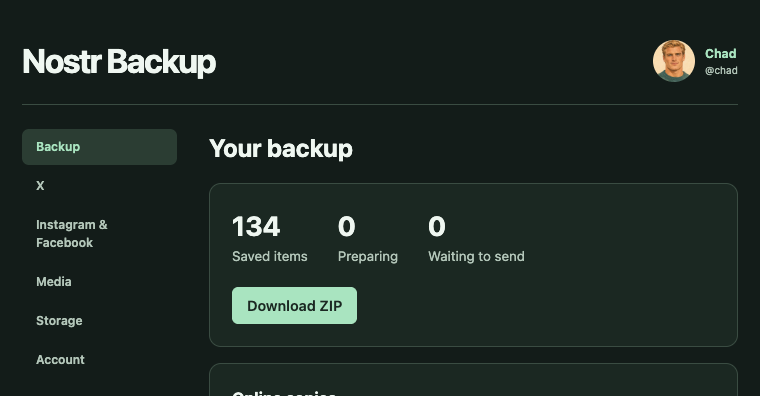
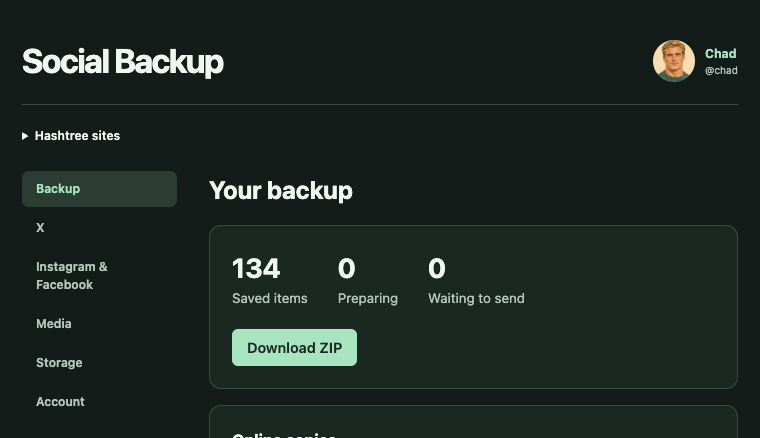
Rename the extension and download site to Social Backup

diff --git a/website/public/index.html b/website/public/index.html
@@ -3,18 +3,18 @@
   <head>
     <meta charset="utf-8">
     <meta name="viewport" content="width=device-width, initial-scale=1">
-    <title>Back up your posts | Nostr Backup</title>
+    <title>Back up your posts | Social Backup</title>
     <meta name="description" content="Keep a copy of your X, Instagram and Facebook posts. Scroll your profile and the extension saves them as you go.">
     <meta name="color-scheme" content="light dark">
     <meta name="theme-color" content="#faf9f5" media="(prefers-color-scheme: light)">
     <meta name="theme-color" content="#11141b" media="(prefers-color-scheme: dark)">
-    <link rel="canonical" href="https://nostrbackup.iris.to/">
+    <link rel="canonical" href="https://backup.iris.to/">
     <link rel="icon" href="./icon.svg" type="image/svg+xml">
     <link rel="stylesheet" href="./style.css">
   </head>
   <body>
     <header class="bar wrap">
-      <a class="brand" href="./"><img src="./icon.svg" width="30" height="30" alt="">Nostr Backup</a>
+      <a class="brand" href="./"><img src="./icon.svg" width="30" height="30" alt="">Social Backup</a>
       <nav aria-label="Main navigation"><a class="wide-only" href="#how">How it works</a><a href="#install">Install</a><a href="#questions">Questions</a></nav>
     </header>
     <main class="wrap">
@@ -35,10 +35,10 @@
         </div>
         <figure class="backup-preview">
           <picture>
-            <source media="(max-width: 35rem) and (prefers-color-scheme: dark)" srcset="./screenshots/toolbar-compact-dark.webp" width="366" height="525">
-            <source media="(max-width: 35rem)" srcset="./screenshots/toolbar-compact-light.webp" width="366" height="525">
-            <source media="(prefers-color-scheme: dark)" srcset="./screenshots/toolbar-desktop-dark.webp" width="730" height="557">
-            <img src="./screenshots/toolbar-desktop-light.webp" width="730" height="557" alt="The backup popup beneath its pinned Chrome toolbar icon, showing Chad’s avatar and eight captured X posts.">
+            <source media="(max-width: 35rem) and (prefers-color-scheme: dark)" srcset="./screenshots/toolbar-compact-dark.webp" width="366" height="545">
+            <source media="(max-width: 35rem)" srcset="./screenshots/toolbar-compact-light.webp" width="366" height="545">
+            <source media="(prefers-color-scheme: dark)" srcset="./screenshots/toolbar-desktop-dark.webp" width="730" height="577">
+            <img src="./screenshots/toolbar-desktop-light.webp" width="730" height="577" alt="The backup popup beneath its pinned Chrome toolbar icon, showing Chad’s avatar and eight captured X posts.">
           </picture>
           <figcaption>The extension on a sample X profile.</figcaption>
         </figure>
@@ -49,7 +49,7 @@
         <ol class="steps">
           <li>
             <h3>Make a profile</h3>
-            <p>Click the Nostr Backup icon and choose <strong>Create profile</strong>. Then choose <strong>X</strong> or <strong>Instagram &amp; Facebook</strong>, enter your username, turn on backup and choose <strong>Save</strong>.</p>
+            <p>Click the Social Backup icon and choose <strong>Create profile</strong>. Then choose <strong>X</strong> or <strong>Instagram &amp; Facebook</strong>, enter your username, turn on backup and choose <strong>Save</strong>.</p>
           </li>
           <li>
             <h3>Scroll your profile</h3>
@@ -62,8 +62,8 @@
         </ol>
         <figure class="backup-preview archive-preview">
           <picture>
-            <source media="(prefers-color-scheme: dark)" srcset="./screenshots/archive-dark.webp" width="760" height="396">
-            <img src="./screenshots/archive-light.webp" width="760" height="396" loading="lazy" alt="Chad’s sample backup has 134 saved items and a Download ZIP button.">
+            <source media="(prefers-color-scheme: dark)" srcset="./screenshots/archive-dark.webp" width="760" height="438">
+            <img src="./screenshots/archive-light.webp" width="760" height="438" loading="lazy" alt="Chad’s sample backup has 134 saved items and a Download ZIP button.">
           </picture>
           <figcaption>Choose Open backup in the popup to see everything you’ve saved.</figcaption>
         </figure>
@@ -85,12 +85,12 @@
 
       <section id="install" class="section" aria-labelledby="install-title">
         <h2 id="install-title">Install</h2>
-        <p class="lead">Nostr Backup isn’t in the browser stores yet, so adding it takes a few extra clicks.</p>
+        <p class="lead">Social Backup isn’t in the browser stores yet, so adding it takes a few extra clicks.</p>
         <div class="platforms">
           <div class="platform">
             <div class="platform-head">
               <h3>Chrome <small>Easiest</small></h3>
-              <a class="button small" href="./downloads/nostr-backup-chrome.zip" download>Download for Chrome <span aria-hidden="true">↓</span></a>
+              <a class="button small" href="./downloads/social-backup-chrome.zip" download>Download for Chrome <span aria-hidden="true">↓</span></a>
             </div>
             <ol>
               <li>Unzip the download.</li>
@@ -101,7 +101,7 @@
           <div class="platform">
             <div class="platform-head">
               <h3>Firefox <small>140 or newer</small></h3>
-              <a class="button small" href="./downloads/nostr-backup-firefox.zip" download>Download for Firefox <span aria-hidden="true">↓</span></a>
+              <a class="button small" href="./downloads/social-backup-firefox.zip" download>Download for Firefox <span aria-hidden="true">↓</span></a>
             </div>
             <ol>
               <li>Type <code>about:debugging#/runtime/this-firefox</code> in the address bar.</li>
@@ -110,12 +110,12 @@
             <p class="note"><strong>Heads up:</strong> Firefox removes the extension when it restarts. Download your copy before closing Firefox.</p>
           </div>
         </div>
-        <p class="tip">Don’t see the icon? Open your browser’s extensions menu (the puzzle piece) and pin Nostr Backup.</p>
+        <p class="tip">Don’t see the icon? Open your browser’s extensions menu (the puzzle piece) and pin Social Backup.</p>
         <details class="fold">
           <summary>Safari <span>Experimental, needs Xcode</span></summary>
-          <p>On a Mac with Xcode, unzip the package into a folder named <code>nostr-backup-safari</code>, then run this command from its parent folder. Open the generated Xcode project and build the app.</p>
-          <pre><code>xcrun safari-web-extension-packager nostr-backup-safari --app-name "Nostr Backup" --macos-only</code></pre>
-          <a class="button small quiet" href="./downloads/nostr-backup-safari.zip" download>Download for Safari <span aria-hidden="true">↓</span></a>
+          <p>On a Mac with Xcode, unzip the package into a folder named <code>social-backup-safari</code>, then run this command from its parent folder. Open the generated Xcode project and build the app.</p>
+          <pre><code>xcrun safari-web-extension-packager social-backup-safari --app-name "Social Backup" --macos-only</code></pre>
+          <a class="button small quiet" href="./downloads/social-backup-safari.zip" download>Download for Safari <span aria-hidden="true">↓</span></a>
         </details>
       </section>
 

diff --git a/scripts/build.ts b/scripts/build.ts
@@ -8,13 +8,14 @@ const pkg = JSON.parse(await readFile('package.json', 'utf8'));
 const icons = { 16: 'icon-16.png', 32: 'icon-32.png', 48: 'icon-48.png', 128: 'icon-128.png' };
 const common = {
   manifest_version: 3,
-  name: 'Nostr Backup',
+  name: 'Social Backup',
   version: pkg.version,
+  homepage_url: pkg.homepage,
   description: 'Back up posts from X, Instagram, Facebook and Nostr. Share public posts with your relays and export your archive.',
   permissions: ['storage', 'alarms', 'scripting', 'activeTab', 'unlimitedStorage'],
   host_permissions: ['https://*/*', 'http://localhost/*', 'http://127.0.0.1/*', 'http://[::1]/*'],
   icons,
-  action: { default_title: 'Nostr Backup', default_icon: icons },
+  action: { default_title: 'Social Backup', default_icon: icons },
   options_ui: { page: 'archive.html', open_in_tab: true },
   content_scripts: [
     { matches: ['https://*/*'], js: ['browser-helper.js'], run_at: 'document_start', all_frames: true },
@@ -74,7 +75,7 @@ for (const target of ['chrome', 'firefox', 'safari']) {
   for (const name of (await readdir(dir)).sort())
     files[name] = new Uint8Array(await readFile(dir + '/' + name));
   await writeFile(
-    'dist/nostr-backup-' + target + '.zip',
+    'dist/social-backup-' + target + '.zip',
     zipSync(files, { level: 6, mtime: new Date(1980, 0, 1) }),
   );
   console.log('Built ' + dir);

diff --git a/scripts/browser-check.ts b/scripts/browser-check.ts
@@ -12,7 +12,7 @@ const {
 await mkdir('build', { recursive: true });
 await writeFile(
   'build/browser-check.html',
-  '<!DOCTYPE html><html lang="en"><meta charset="utf-8"><meta http-equiv="Content-Security-Policy" content="default-src \'none\'; script-src \'unsafe-inline\'; style-src \'unsafe-inline\'"><title>Nostr Backup browser check</title><style>body{font:18px/1.6 system-ui;max-width:45em;margin:4em auto;padding:1em;color:#193d30}output{font-weight:700}</style><h1>Nostr Backup browser check</h1><ol></ol><output>Running…</output><script>' +
+  '<!DOCTYPE html><html lang="en"><meta charset="utf-8"><meta http-equiv="Content-Security-Policy" content="default-src \'none\'; script-src \'unsafe-inline\'; style-src \'unsafe-inline\'"><title>Social Backup browser check</title><style>body{font:18px/1.6 system-ui;max-width:45em;margin:4em auto;padding:1em;color:#193d30}output{font-weight:700}</style><h1>Social Backup browser check</h1><ol></ol><output>Running…</output><script>' +
     bundle.text.replaceAll('</script', '<\\/script') +
     '</script></html>',
 );

diff --git a/ui/archive.html b/ui/archive.html
@@ -3,7 +3,7 @@
   <head>
     <meta charset="utf-8" />
     <meta name="viewport" content="width=device-width, initial-scale=1" />
-    <title>Nostr Backup</title>
+    <title>Social Backup</title>
     <link href="icon.svg" rel="icon" />
     <link href="style.css" rel="stylesheet" />
     <script defer src="archive-ui.js"></script>
@@ -11,7 +11,7 @@
   <body class="archive">
     <main>
       <header class="appHeader">
-        <h1>Nostr Backup</h1>
+        <h1>Social Backup</h1>
         <a id="signedInProfile" class="profile" target="_blank" rel="noopener noreferrer" title="View profile on Iris" hidden>
           <span class="avatar" aria-hidden="true">
             <span id="profileInitials"></span>

diff --git a/test/extension.test.ts b/test/extension.test.ts
@@ -1677,7 +1677,7 @@ test('X images are archived locally, retried on the selected Blossom server and 
     assert.ok(signed && verifyEvent(signed));
     assert.equal(signed.content, 'Photo\n\n' + cdnURL);
     assert.equal(signed.tags.filter((t) => t[0] === 'client').length, 1);
-    assert.ok(signed.tags.some((t) => t[0] === 'client' && t[1] === 'nostr-backup'));
+    assert.ok(signed.tags.some((t) => t[0] === 'client' && t[1] === 'Social Backup'));
     assert.ok(signed.tags.some((t) => t[0] === 'imeta' && t.includes('x ' + digest)));
     assert.equal(JSON.stringify(signed).includes('twimg.com'), false);
     assert.equal((await db.get('mediaRefs', [id!, cdnURL]))?.status, 'saved');

diff --git a/ui/popup.html b/ui/popup.html
@@ -2,14 +2,14 @@
 <html lang="en">
   <head>
     <meta charset="utf-8" />
-    <title>Nostr Backup</title>
+    <title>Social Backup</title>
     <link rel="icon" href="icon.svg" />
     <link rel="stylesheet" href="style.css" />
     <script defer src="popup.js"></script>
   </head>
   <body class="popup">
     <main>
-      <h1>Nostr Backup</h1>
+      <h1>Social Backup</h1>
       <div id="backupActions" hidden>
         <a id="signedInProfile" class="profile" target="_blank" rel="noopener noreferrer" title="View profile on Iris" hidden>
           <span class="avatar" aria-hidden="true">

diff --git a/src/social.ts b/src/social.ts
@@ -59,7 +59,7 @@ export function socialTemplate(post: SocialCapture) {
   const content = [post.text, ...media.filter(url => !post.text.includes(url))].join('\n\n');
   return {
     kind: 1, created_at: post.time, content,
-    tags: [['r', post.url], ['i', post.url], ['k', 'web'], ['client', 'nostr-backup'],
+    tags: [['r', post.url], ['i', post.url], ['k', 'web'], ['client', 'Social Backup'],
       ...(post.timePrecision === 'day' ? [['time-precision', 'day']] : []),
       ...media.map(url => ['imeta', 'url ' + url])],
   };

diff --git a/scripts/build-site.ts b/scripts/build-site.ts
@@ -6,7 +6,7 @@ await mkdir(output + '/downloads', { recursive: true });
 await cp('website/public', output, { recursive: true });
 await copyFile('ui/icon.svg', output + '/icon.svg');
 for (const browser of ['chrome', 'firefox', 'safari']) {
-  const archive = `nostr-backup-${browser}.zip`;
+  const archive = `social-backup-${browser}.zip`;
   await copyFile('dist/' + archive, output + '/downloads/' + archive);
 }
 console.log('Built ' + output);

diff --git a/src/archive-ui.ts b/src/archive-ui.ts
@@ -377,7 +377,7 @@ on('download', 'click', async () => {
     if (pubkey !== owner) return;
     downloadBlob(
       new Blob([bytes as Uint8Array<ArrayBuffer>], { type: 'application/zip' }),
-      'nostr-backup-' + new Date().toISOString().slice(0, 10) + '.zip',
+      'social-backup-' + new Date().toISOString().slice(0, 10) + '.zip',
     );
     notice('ZIP download started.');
   } finally {

diff --git a/src/model.ts b/src/model.ts
@@ -122,7 +122,7 @@ export function xTemplate(post: Capture, handle: string) {
     ['r', url],
     ['i', url],
     ['k', 'web'],
-    ['client', 'nostr-backup'],
+    ['client', 'Social Backup'],
   ];
   // Modern X IDs encode milliseconds above their low 22 worker/sequence bits.
   // Cross-check with the independent DOM date before using that precision.

diff --git a/test/capture.test.ts b/test/capture.test.ts
@@ -39,7 +39,7 @@ test('text, emoji, timestamp, case and canonical permalink', () => {
     ['r', 'https://x.com/alice/status/123'],
     ['i', 'https://x.com/alice/status/123'],
     ['k', 'web'],
-    ['client', 'nostr-backup'],
+    ['client', 'Social Backup'],
   ]);
 });
 test('skip truncated text, foreign reposts and nested quotations', () => {

diff --git a/README.md b/README.md
@@ -1,10 +1,10 @@
-# Nostr Backup
+# Social Backup
 
 A Chrome and Firefox extension that archives your own posts as you browse your X, Instagram, or Facebook profile. It signs confirmed public posts as Nostr kind 1 notes, imports your signed Nostr events from the relays you choose, and keeps both in a local, exportable hashtree.
 
 ## Install
 
-Browser packages and installation instructions are on [nostrbackup.iris.to](https://nostrbackup.iris.to/). The source is on [git.iris.to](https://git.iris.to/#/npub1xdhnr9mrv47kkrn95k6cwecearydeh8e895990n3acntwvmgk2dsdeeycm/nostr-backup) and [GitHub](https://github.com/mmalmi/nostr-backup).
+Browser packages and installation instructions are on [backup.iris.to](https://backup.iris.to/). The source is on [git.iris.to](https://git.iris.to/#/npub1xdhnr9mrv47kkrn95k6cwecearydeh8e895990n3acntwvmgk2dsdeeycm/nostr-backup) and [GitHub](https://github.com/mmalmi/nostr-backup).
 
 Use Node 22.12 or newer and pnpm 10.28.2.
 
@@ -20,14 +20,14 @@ pnpm build
 | Safari | On a Mac with Xcode, run the command below on `dist/safari`, open the generated Xcode project, and build the containing app. The Safari build is experimental. |
 
 ```sh
-xcrun safari-web-extension-packager dist/safari --app-name "Nostr Backup" --macos-only
+xcrun safari-web-extension-packager dist/safari --app-name "Social Backup" --macos-only
 ```
 
 The build also writes a ZIP for each browser, with fixed entry timestamps so repeated builds from the same inputs produce identical packages. Unzip the Chrome package before loading it. Firefox release distribution requires a Mozilla-signed package. Export your archive before removing or replacing a temporary installation.
 
 ## First backup
 
-1. Click the Nostr Backup toolbar icon. Enter your name and choose **Create profile** to start a new Nostr profile. If you already have a profile, choose **Sign in** and paste your secret key (nsec) or user ID (npub). The archive opens automatically; npub stays read-only. As in Iris, a 64-character hex key is treated as a private key. The default relays match Iris. Open **Backup → Relays** to change the selection or add your own.
+1. Click the Social Backup toolbar icon. Enter your name and choose **Create profile** to start a new Nostr profile. If you already have a profile, choose **Sign in** and paste your secret key (nsec) or user ID (npub). The archive opens automatically; npub stays read-only. As in Iris, a 64-character hex key is treated as a private key. The default relays match Iris. Open **Backup → Relays** to change the selection or add your own.
 2. **Sync daily** backs up every event kind your relays serve for your public key. To filter downloads, open **Backup → Download all event kinds**, choose **Only these kinds** or **All except these kinds**, enter kind numbers (for example, `1, 7`), then choose **Save filter**. The next sync checks older history after an upgrade or filter change. Previously saved events stay in your ZIP. The importer verifies each event’s author, ID and signature.
 3. To mirror X, open **X**, enter your handle, enable capture, and choose **Save**. If you opened the archive with a public key, log in with its private key to sign captures.
 4. Visit the configured X profile and scroll. You can view it from another X account. The profile URL and the post author’s timestamp permalink must both match the configured handle. It handles Posts, Replies and Media profile tabs. Read-only mode pauses capture; existing unsigned captures remain on disk.
@@ -36,7 +36,7 @@ The build also writes a ZIP for each browser, with fixed entry timestamps so rep
 
 **Sync now** imports from your saved relays even when automatic import is off, and retries queued deliveries. Each relay has a live connection indicator, activity, imported and acknowledged-send counts, queue size and broadcast progress. Errors and retry times stay with the affected relay. Each connection closes when its work finishes. Backup shows the last completed history sync for each relay. Your latest archived Nostr profile supplies the avatar and name shown in the header and toolbar popup; the public key stays in **Account**.
 
-**X** shows captured, signed, already-on-Nostr and awaiting-signature totals. By default, capture compares your X post with your own locally archived Nostr notes from the same UTC date. An exact match or a close match to a full note or substantial paragraph links the original X capture to the signed note. Turn off **Skip posts already on Nostr** to sign future captures separately. For new X posts, Backup copies images to the Blossom server selected in **Media** (default `https://blossom.band`) and signs the post with the returned image URLs and the `nostr-backup` client tag. The original image bytes are also saved locally. If an upload fails, the capture stays queued and text-only posts continue signing. The toolbar popup shows capture and upload status on x.com. Public-key login and a locked signer show **Read-only** beside the profile. Capture pauses in this mode; imports, ZIP downloads and broadcasting already-signed events remain available.
+**X** shows captured, signed, already-on-Nostr and awaiting-signature totals. By default, capture compares your X post with your own locally archived Nostr notes from the same UTC date. An exact match or a close match to a full note or substantial paragraph links the original X capture to the signed note. Turn off **Skip posts already on Nostr** to sign future captures separately. For new X posts, Backup copies images to the Blossom server selected in **Media** (default `https://blossom.band`) and signs the post with the returned image URLs and the `Social Backup` client tag. The original image bytes are also saved locally. If an upload fails, the capture stays queued and text-only posts continue signing. The toolbar popup shows capture and upload status on x.com. Public-key login and a locked signer show **Read-only** beside the profile. Capture pauses in this mode; imports, ZIP downloads and broadcasting already-signed events remain available.
 
 **Instagram & Facebook** lets you enable either profile separately. Enter your Instagram username or Facebook username/numeric profile ID, choose **Save**, then visit your profile and scroll. Opening an Instagram post also works. The extension records your own posts it can identify, including the original link, caption, available media, and date. Instagram grid dates can have day-only precision. Facebook uses the audience on each post. Instagram checks the post through its signed-out public embed. Login walls and unsupported layouts can limit capture. Media downloads obey your per-file limit and the source site's access rules.
 
@@ -77,7 +77,7 @@ The Media page distinguishes saved files, poster-only captures, and unavailable 
 **Download file** reads a saved file locally. **Backup → Download ZIP** includes the media index and all referenced blocks. To extract ordinary media files from a ZIP offline, run the command below in this project with dependencies installed. It checks each restored file’s length and SHA-256 and names the output by its hash.
 
 ```sh
-node --experimental-strip-types scripts/extract-media.ts nostr-backup-2026-11-11.zip restored-media
+node --experimental-strip-types scripts/extract-media.ts social-backup-2026-11-11.zip restored-media
 ```
 
 **Media → Sync media** checks locally saved public files against every configured Blossom server and restores missing copies from local Hashtree storage. Enter one server origin per line. HTTPS servers and HTTP loopback servers are supported. X photo posts can use the first confirmed public copy while the other servers finish independently. Localhost addresses are excluded from published image links. Each file and server has a persistent delivery record. Failed attempts back off from five minutes to six hours and resume after a restart. The Media page shows each server’s saved and queued counts, errors and next retry. Sync again to check for copies a server has lost. Restricted captures stay local.
